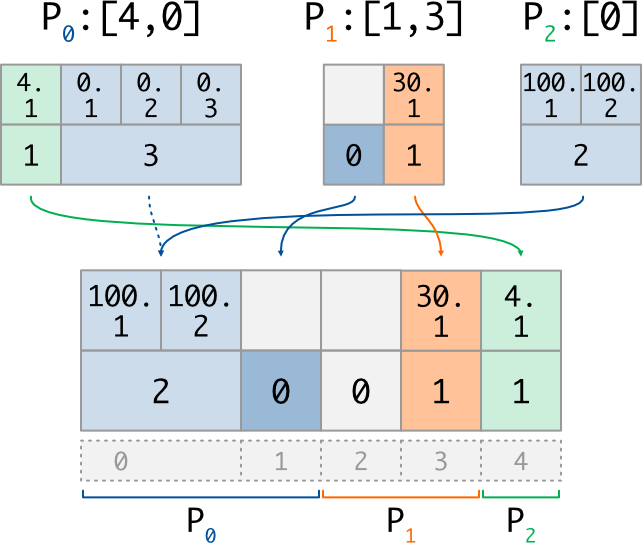
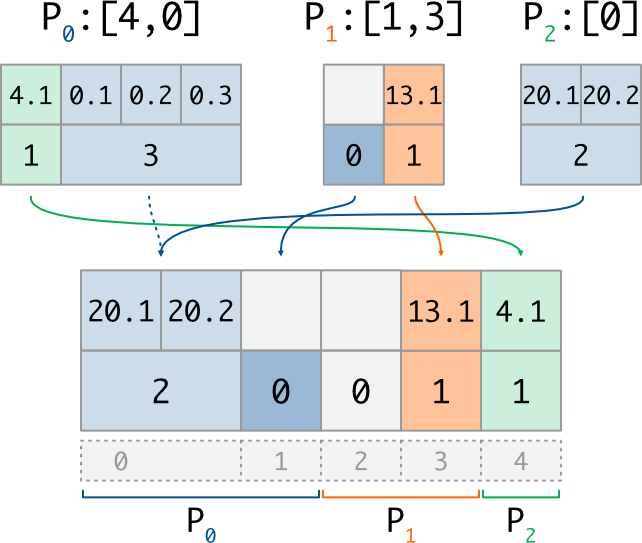
Changes from review

diff --git a/maia/transfer/_protocols/g_indexer.py b/maia/transfer/_protocols/g_indexer.py
@@ -80,12 +80,12 @@ def _guess_reduce_dt_and_identity(dt_in, op):
 
   return dt_out, val
 
-def put_strided(a, a_count, indices, read_counts, read, extend=False):
+def put_strided(a, a_count, indices, read_counts, read, append=False):
   """
   A special case of VStrideArray.put() where out (a) is preallocated
   and all indices will be visited
   """
-  if extend:
+  if append:
     vstride.put_extend(a_count, a, indices, read_counts, read)
   else:
     vstride.put(a_count, a, indices, read_counts, read)
@@ -482,7 +482,7 @@ class GlobalMultiIndexer:
     self.comm.Alltoallv((send_buff, send_counts, send_buff.dtype.char), (recv_buff, recv_counts, send_buff.dtype.char))
 
     # Post treat recv buffer (data arrive in mpi layout, put it in requested layout)
-    put_strided(buff_out, counts_out, self.dist_select_idx, _counts_out, recv_buff, extend=append)
+    put_strided(buff_out, counts_out, self.dist_select_idx, _counts_out, recv_buff, append)
 
     return counts_out, buff_out
   

diff --git a/doc/developer_manual/tools/gindexer.rst b/doc/developer_manual/tools/gindexer.rst
@@ -221,7 +221,7 @@ coming from the different processes::
   # P1 : dist_data_new = array([0,0,17,19],   dtype=int)      #glob idx 2..4
   # P2 : dist_data_new = array([29,31],       dtype=int)      #glob idx 4..5
 
-In this case, the size of the output data remains the same, but the reduction fonction is
+In this case, the size of the output data remains the same, but the reduction function is
 applied to the data written at the same index to compute the result.
 
 .. note:: 
@@ -274,22 +274,22 @@ which can be illustrated as follow:
 And here is an exemple of the ``put`` implementation for a variable buffer::
 
   if rank == 0:
-    counts = array([1,3])                      #nb of vals to write at [4,0]
-    values = array([4.1,0.1,0.2,0.3],dtype='f')#values (1, then 3)
+    counts = array([1,3])                       #nb of vals to write at [4,0]
+    values = array([4.1,0.1,0.2,0.3],dtype='f') #values (1, then 3)
   if rank == 1:
-    counts = array([0,1])                      #nb of vals to write at [1,3]
-    values = array([30.1],           dtype='f')#values (0, then 1)
+    counts = array([0,1])                       #nb of vals to write at [1,3]
+    values = array([13.1],           dtype='f') #values (0, then 1)
   if rank == 2:
-    counts = array([2])                        #nb of vals to write at [0]
-    values = array([100.1,100.2],    dtype='f')#values (2)
+    counts = array([2])                         #nb of vals to write at [0]
+    values = array([20.1,20.2],      dtype='f') #values (2)
 
   counts_new, dist_data_new = GI.Put_v((counts, values))
-  # P0 : counts_new    = array([2,0])                   #nb of vals for 0..2
-  #      dist_data_new = array([100.1,100.2],dtype='f') #values (2, then 0)
-  # P1 : counts_new    = array([0,1])                   #nb of vals for 2..4
-  #      dist_data_new = array([30.1],       dtype='f') #values (0, then 1)
-  # P2 : counts_new    = array([1])                     #nb of vals for 4..5
-  #      dist_data_new = array([4.1],        dtype='f') #values (1)
+  # P0 : counts_new    = array([2,0])                  #nb of vals for 0..2
+  #      dist_data_new = array([20.1,20.2], dtype='f') #values (2, then 0)
+  # P1 : counts_new    = array([0,1])                  #nb of vals for 2..4
+  #      dist_data_new = array([13.1],      dtype='f') #values (0, then 1)
+  # P2 : counts_new    = array([1])                    #nb of vals for 4..5
+  #      dist_data_new = array([4.1],       dtype='f') #values (1)
 
 with its corresponding illustration (note that 0-length data does not *really* exist in memory):
 
@@ -316,12 +316,12 @@ written at a same global index are concatenated according to their apparition or
 (in increasing rank order)::
 
   counts_new, dist_data_new = GI.Put_v((counts, values), append=True)
-  #P0 : counts_new    = array([5,0])                    #nb of vals for 0..2
-  #     dist_data_new = array([0.1,0.2,0.3,100.1,100.2])#values (5, then 0)
-  #P1 : counts_new    = array([0,1])                    #nb of vals for 2..4
-  #     dist_data_new = array([30.1],                  )#values (0, then 1)
-  #P2 : counts_new    = array([1])                      #nb of vals for 4..5
-  #     dist_data_new = array([4.1],                   )#values (1)
+  #P0 : counts_new    = array([5,0])                   #nb of vals for 0..2
+  #     dist_data_new = array([0.1,0.2,0.3,20.1,20.2]) #values (5, then 0)
+  #P1 : counts_new    = array([0,1])                   #nb of vals for 2..4
+  #     dist_data_new = array([30.1],                ) #values (0, then 1)
+  #P2 : counts_new    = array([1])                     #nb of vals for 4..5
+  #     dist_data_new = array([4.1],                 ) #values (1)
 
 On the above example, we can see that with ``append=True``, global index 0 get a counts
 of 5 because 3 values has been written by P0, then 2 values by P2.
